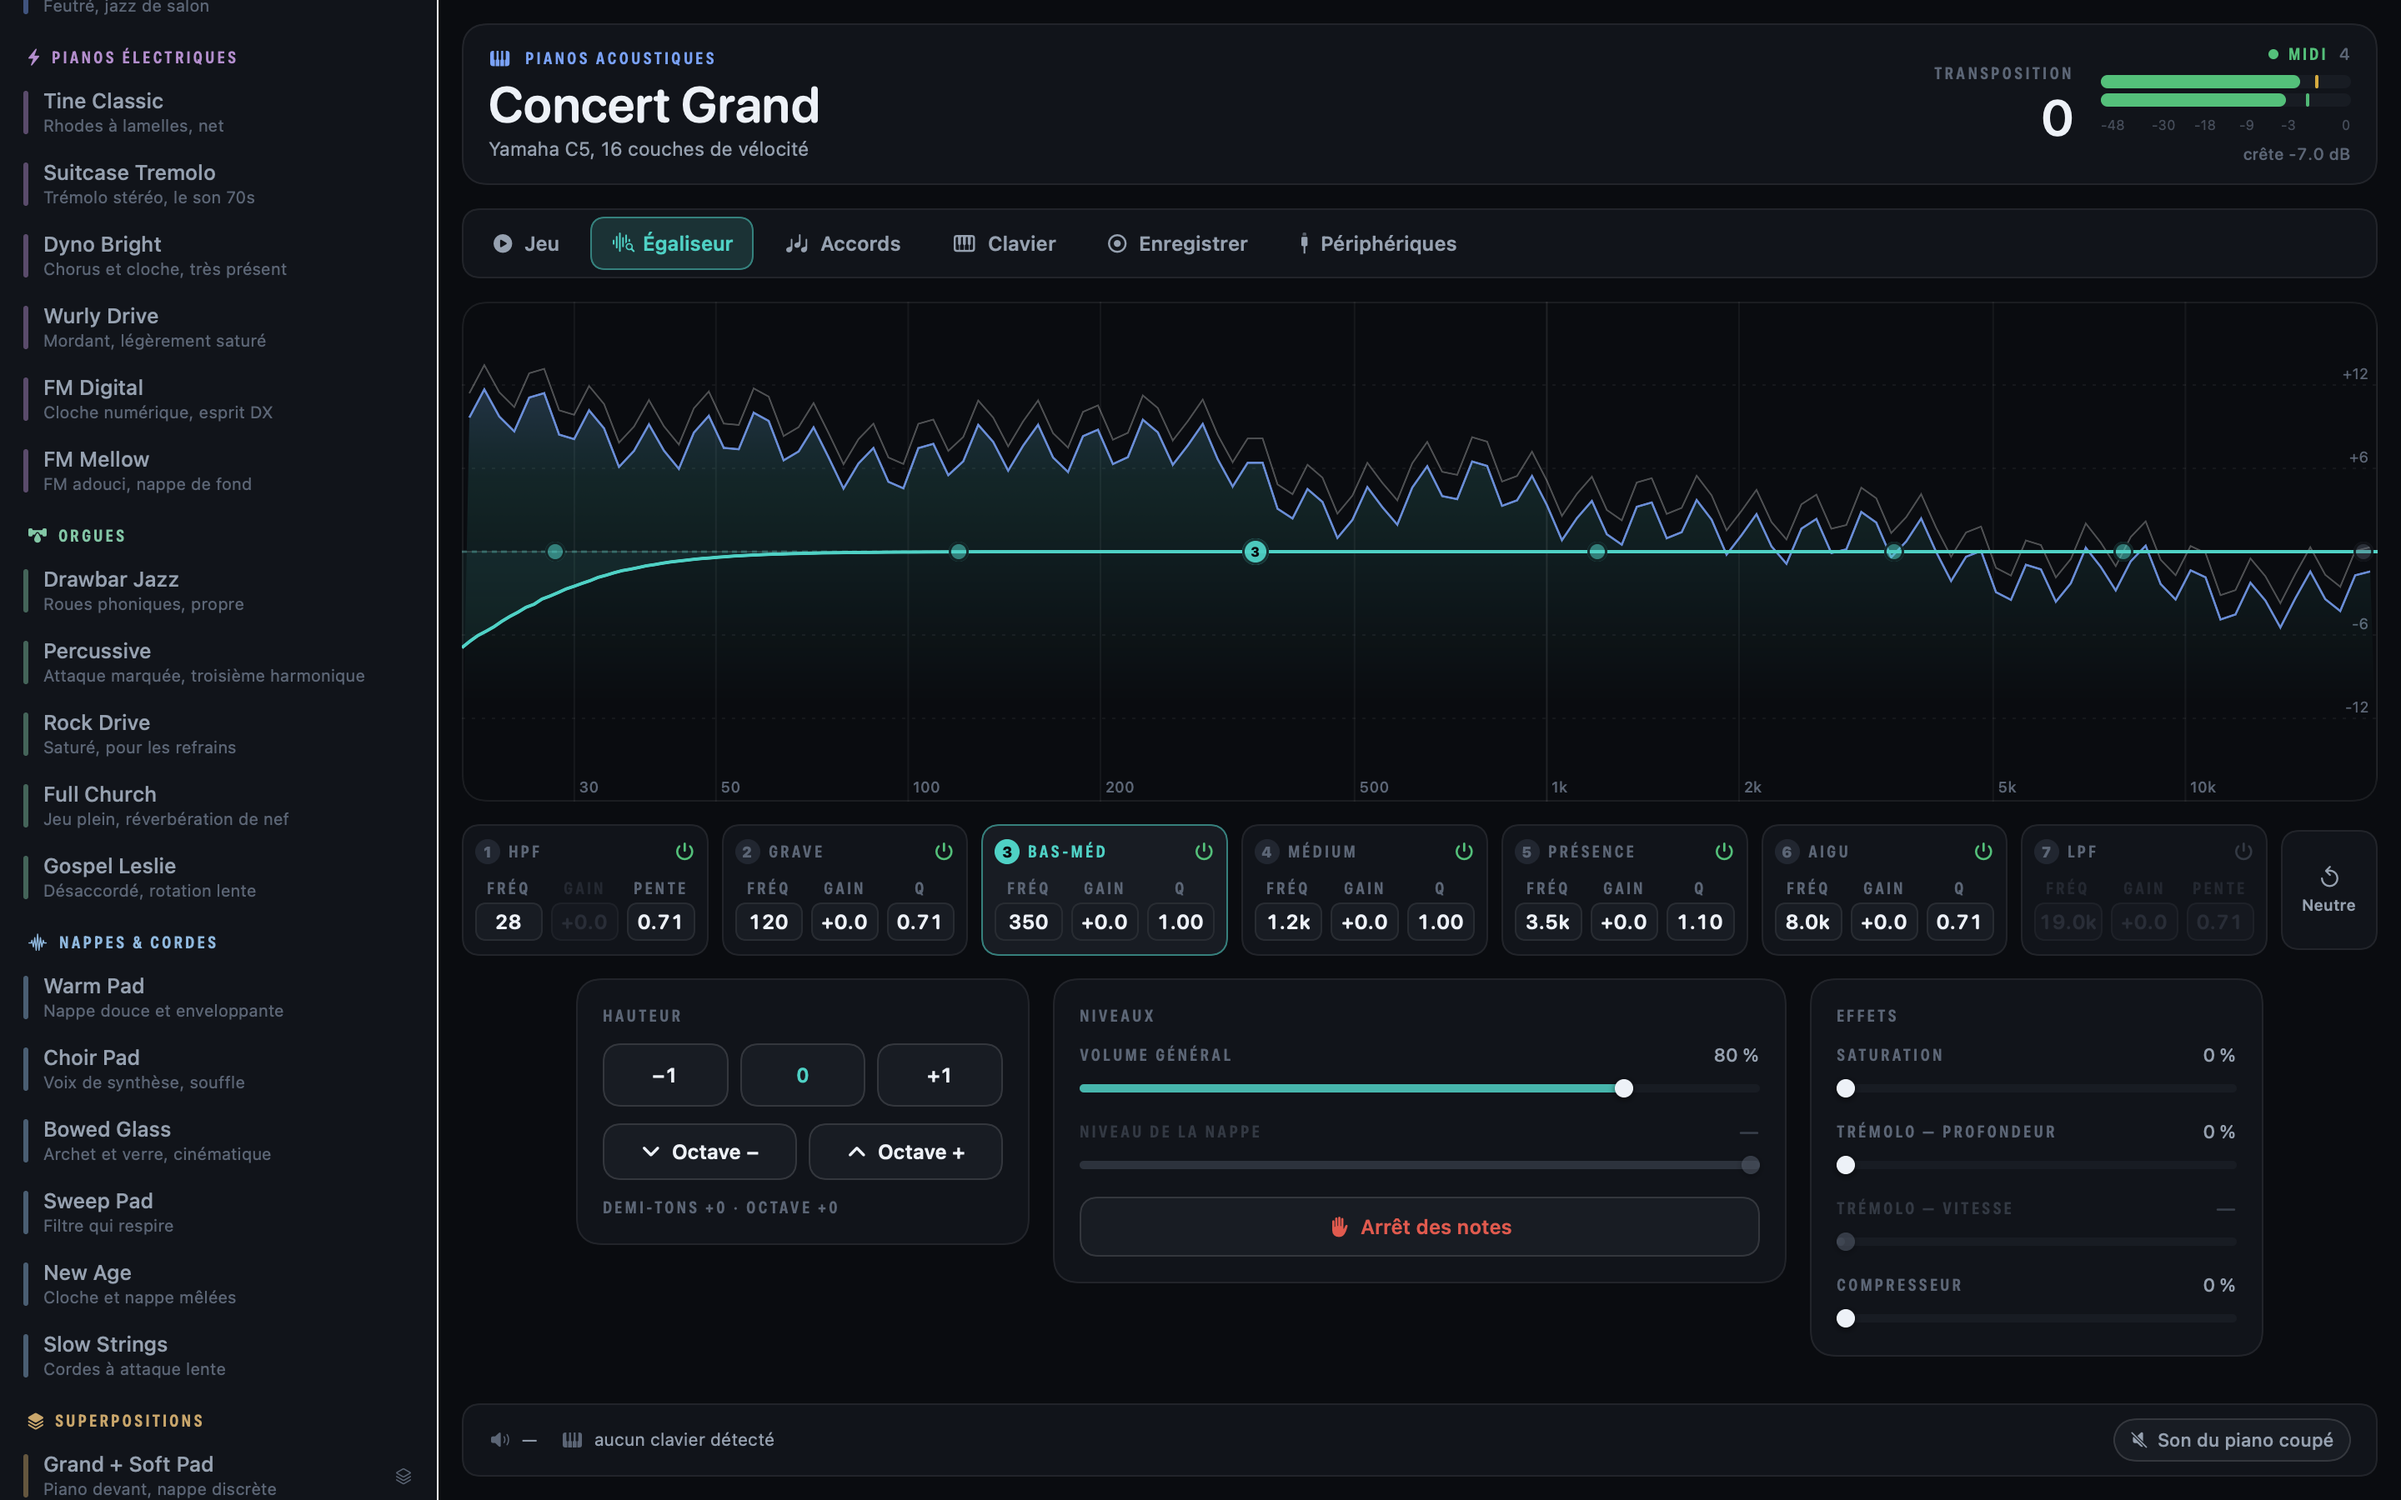
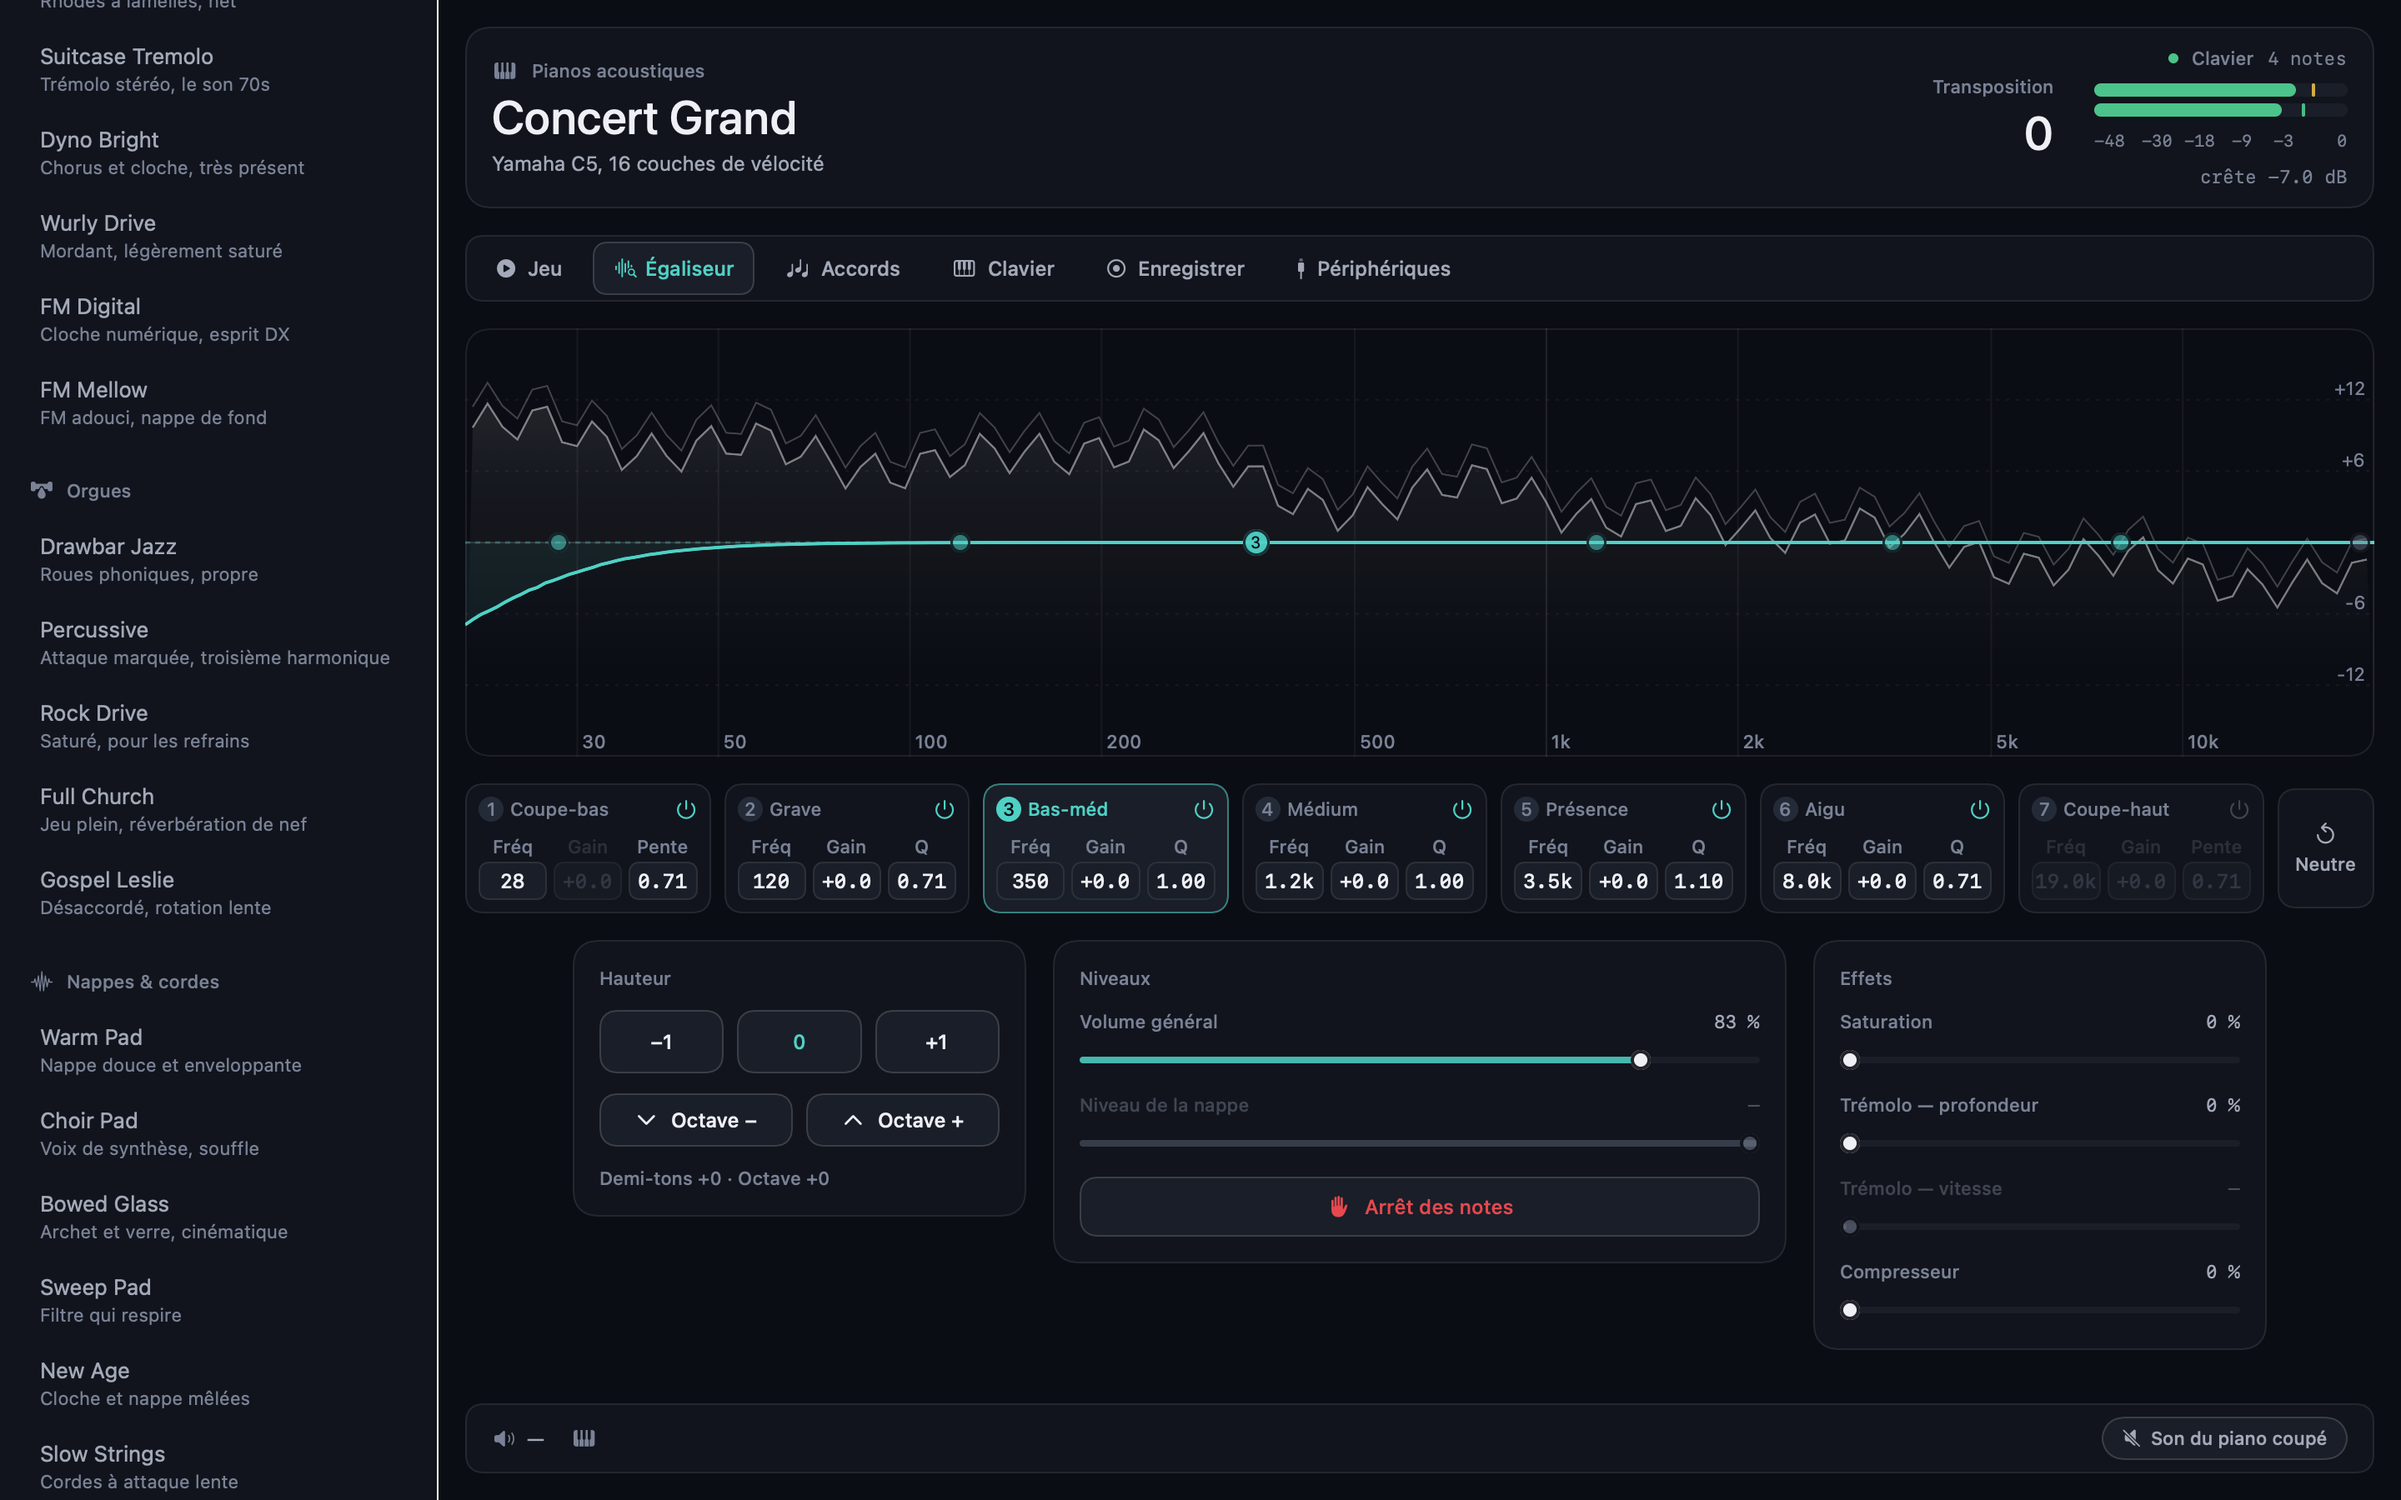
Les captures d'écran montrent la nouvelle interface
Les images du README dataient de la 1.1.0. Et le guide d'extension renvoie
maintenant au langage visuel, en rappelant que la palette du Mac et celle de
la page doivent rester identiques.

diff --git a/docs/EXTENDING.md b/docs/EXTENDING.md
@@ -91,8 +91,18 @@ l'écriture, trois cas de test se sont révélés faux alors que le code avait r
 
 ## Changer la palette
 
-`enum Tone` dans `Sources/UI/Design.swift`. Une seule couleur d'accent, et les
-couleurs vives réservées à l'information. Après modification, `make preview`.
+`enum Tone` dans `Sources/UI/Design.swift`, et les variables `--bg0…--t2` en haut
+de `Sources/Web/remote.css`. **Les deux doivent rester identiques** : l'application
+et la page sont le même outil, et une page qui dérive d'un ton finit par ne plus
+ressembler à rien.
+
+Les règles qui tiennent la palette — une rampe de gris froids, un seul accent, trois
+rôles de texte, les couleurs vives réservées à une mesure — sont écrites dans
+[AGENTS.md](../AGENTS.md) §4 bis. Lisez-les avant de changer une valeur : elles
+expliquent pourquoi le gris estompé est à 4,9:1 et pas plus bas.
+
+Après modification : `make build && make preview`, puis *regardez les PNG* — surtout
+`ui-min.png`, le rendu le plus étroit.
 
 ## Travailler sans casser votre installation de scène
 
